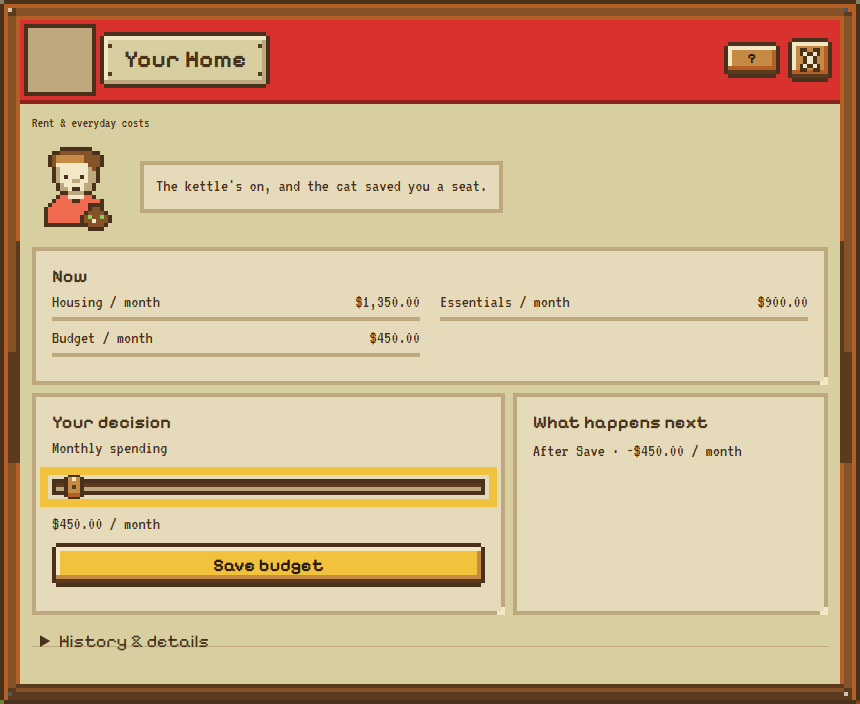
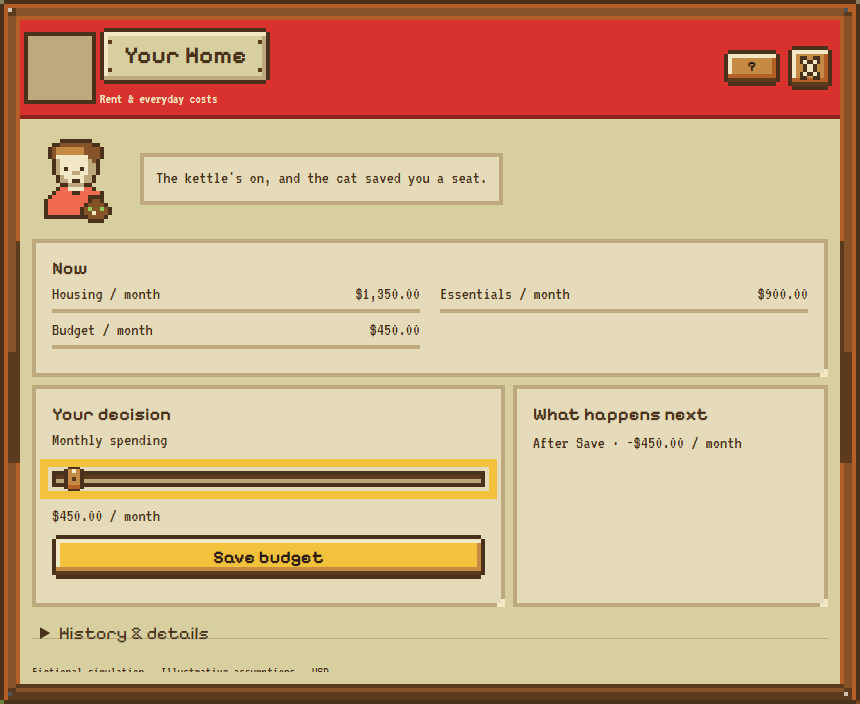
[agent3] polish window headers and integer-scale portraits

Changed region(s): [[0.0, 0.0312, 0.9977, 0.9375]]

diff --git a/src/components/panels/windows.css b/src/components/panels/windows.css
@@ -25,15 +25,19 @@
 .ft-sheet__popover { position: fixed; z-index: 2; top: calc(25 * var(--px)); right: calc(7 * var(--px)); width: min(calc(105 * var(--px)), calc(100vw - 28 * var(--px))); max-height: calc(100dvh - 50 * var(--px)); overflow: auto; color: var(--c-outline); font: var(--fs-body)/1.2 var(--font-body); }
 .ft-sheet__popover::before { content: ''; display: block; width: calc(2 * var(--px)); height: calc(2 * var(--px)); background: var(--c-gold); margin: 0 auto calc(-2 * var(--px)); position: relative; z-index: 1; }
 .ft-sheet__help-heading { margin-bottom: calc(2 * var(--px)); }
-.ft-window-hint { margin: 0 0 calc(2 * var(--px)); font: var(--fs-label)/1.1 var(--font-body); }
+.ft-window-hint { grid-area: hint; margin: 0; color: var(--c-paper); font: var(--fs-label)/1.1 var(--font-body); }
 .fv-window:has(.ft-building-portrait) { --building-roof: var(--c-roof-red); --building-roof-dark: var(--c-roof-red-dark); max-width: calc(100vw - 10 * var(--px)); }
 .fv-window:has([data-building='bank']) { --building-roof: var(--c-roof-blue); --building-roof-dark: var(--c-roof-blue-dark); }
 .fv-window:has([data-building='office']) { --building-roof: var(--c-roof-teal); --building-roof-dark: var(--c-roof-teal-dark); }
 .fv-window:has([data-building='market']) { --building-roof: var(--c-roof-green); --building-roof-dark: var(--c-roof-green-dark); }
-.fv-window:has(.ft-building-portrait) > .fv-window__header { background: var(--building-roof); border-bottom: var(--px) solid var(--building-roof-dark); padding: calc(2 * var(--px)); }
-.ft-building-portrait { display: flex; align-items: center; justify-content: center; flex: 0 0 calc(16 * var(--px)); }
+.fv-window:has(.ft-building-portrait) > .fv-window__header { display: grid; grid-template-columns: auto minmax(0, 1fr) auto auto; grid-template-areas: 'portrait title help close' 'portrait hint help close'; background: var(--building-roof); border-bottom: var(--px) solid var(--building-roof-dark); padding: calc(2 * var(--px)); }
+.fv-window:has(.ft-building-portrait) > .fv-window__header > h2 { grid-area: title; }
+.fv-window:has(.ft-building-portrait) > .fv-window__header > .fv-icon-button { grid-area: close; }
+.ft-building-portrait { grid-area: portrait; display: flex; align-items: center; justify-content: center; }
 .ft-building-portrait .fv-sprite { flex-shrink: 0; }
-.ft-window-help-slot { margin-left: auto; }
+/* Full world buildings use a smaller integer zoom as header portraits. */
+.ft-building-portrait .fv-portrait { --px: var(--portrait-px); }
+.ft-window-help-slot { grid-area: help; margin-left: auto; }
 .ft-keeper { display: flex; gap: calc(3 * var(--px)); align-items: center; margin-bottom: calc(3 * var(--px)); }
 .ft-keeper__portrait { flex: 0 0 calc(24 * var(--px)); width: calc(24 * var(--px)); height: calc(24 * var(--px)); background-size: calc(48 * var(--px)) calc(24 * var(--px)); image-rendering: pixelated; animation: ft-keeper-blink 4s step-end infinite; }
 .ft-keeper__portrait--bank { background-image: url('/art/windows/keepers/bank.png'); }

diff --git a/src/components/town/PanelHost.tsx b/src/components/town/PanelHost.tsx
@@ -1,7 +1,8 @@
-import { useEffect, useState, type ReactNode } from 'react';
+import { useEffect, useState, type CSSProperties, type ReactNode } from 'react';
 import type { BuildingId } from '../../types/domain';
 import { Modal } from '../../ui';
 import { BuildingPortrait } from '../../game/art/Sprite';
+import { useStageScale } from '../../game/stage/GameStage';
 import { sfx } from '../../game/audio/sfx';
 import { buildings } from './buildings';
 import { KeeperGreeting } from '../panels/KeeperGreeting';
@@ -11,14 +12,15 @@ import '../panels/windows.css';
 export interface PanelHostProps { building?: BuildingId; title?: string; onClose: () => void; children: ReactNode }
 /** Compatibility host for existing callers; all dialog behavior belongs to the kit. */
 export function PanelHost({ building, title, onClose, children }: PanelHostProps) {
+  const { px } = useStageScale();
   const [helpTarget, setHelpTarget] = useState<HTMLSpanElement | null>(null);
   useEffect(() => { sfx('open'); }, [building]);
   function close() { sfx('close'); onClose(); }
   return <Modal title={title ?? (building ? buildings[building].title : 'Your story')} onClose={close} width={building ? 'lg' : 'md'}
-    plaque={building && <span className="ft-building-portrait" data-building={building}><BuildingPortrait building={building}/></span>}
-    headerExtra={building && <span className="ft-window-help-slot" ref={setHelpTarget}/> }>
+    plaque={building && <span className="ft-building-portrait" data-building={building} style={{ '--portrait-px': `${Math.max(1, Math.floor(px / 4))}px` } as CSSProperties}><BuildingPortrait building={building}/></span>}
+    headerExtra={building && <><span className="ft-window-hint">{buildings[building].hint}</span><span className="ft-window-help-slot" ref={setHelpTarget}/></>}>
     <WindowHelpContext.Provider value={helpTarget}>
-      {building && <><p className="ft-window-hint">{buildings[building].hint}</p><KeeperGreeting building={building}/></>}
+      {building && <KeeperGreeting building={building}/> }
       {children}
     </WindowHelpContext.Provider>
   </Modal>;

diff --git a/src/components/panels/canonical/BankPanel.tsx b/src/components/panels/canonical/BankPanel.tsx
@@ -35,7 +35,7 @@ export function BankPanel({ state, dispatch }: PanelProps) {
         <MoneyInput label="One-time debt payment" raw={payment} onChange={setPayment} min={paymentMax > 0 ? .01 : 0} max={paymentMax} disabled={disabled || paymentMax <= 0} />
         <p>{!paymentError ? `${money(-Number(payment))} once` : `Up to ${money(paymentMax)}`}</p>
         {!paymentError && debt && <PaymentPreview state={state} debtId={debt.id} amount={Number(payment)} />}
-        <Button type="submit" variant="primary" disabled={disabled || !debt || !!paymentError || paymentMax <= 0}>Pay once</Button>
+        <Button type="submit" variant="wood" disabled={disabled || !debt || !!paymentError || paymentMax <= 0}>Pay once</Button>
       </form>
     </details>{task.feedback}
   </>} consequence={<><p>Savings after Save · {money(draftPolicy.savingsContributionPerMonth)} / month</p><PolicyPreview state={state} draftPolicy={draftPolicy} invalid={!!savingsError} compact /></>} help={<><ul><li>Savings repeats each month after bills.</li><li>Extra payments use cash and reduce the debt.</li><li>Edits apply when you save.</li></ul><PolicyPreview state={state} draftPolicy={draftPolicy} invalid={!!savingsError} /></>} details={<LedgerHistory state={state} categories={['savings_contribution', 'savings_interest', 'debt_payment', 'debt_interest']} />} />;
